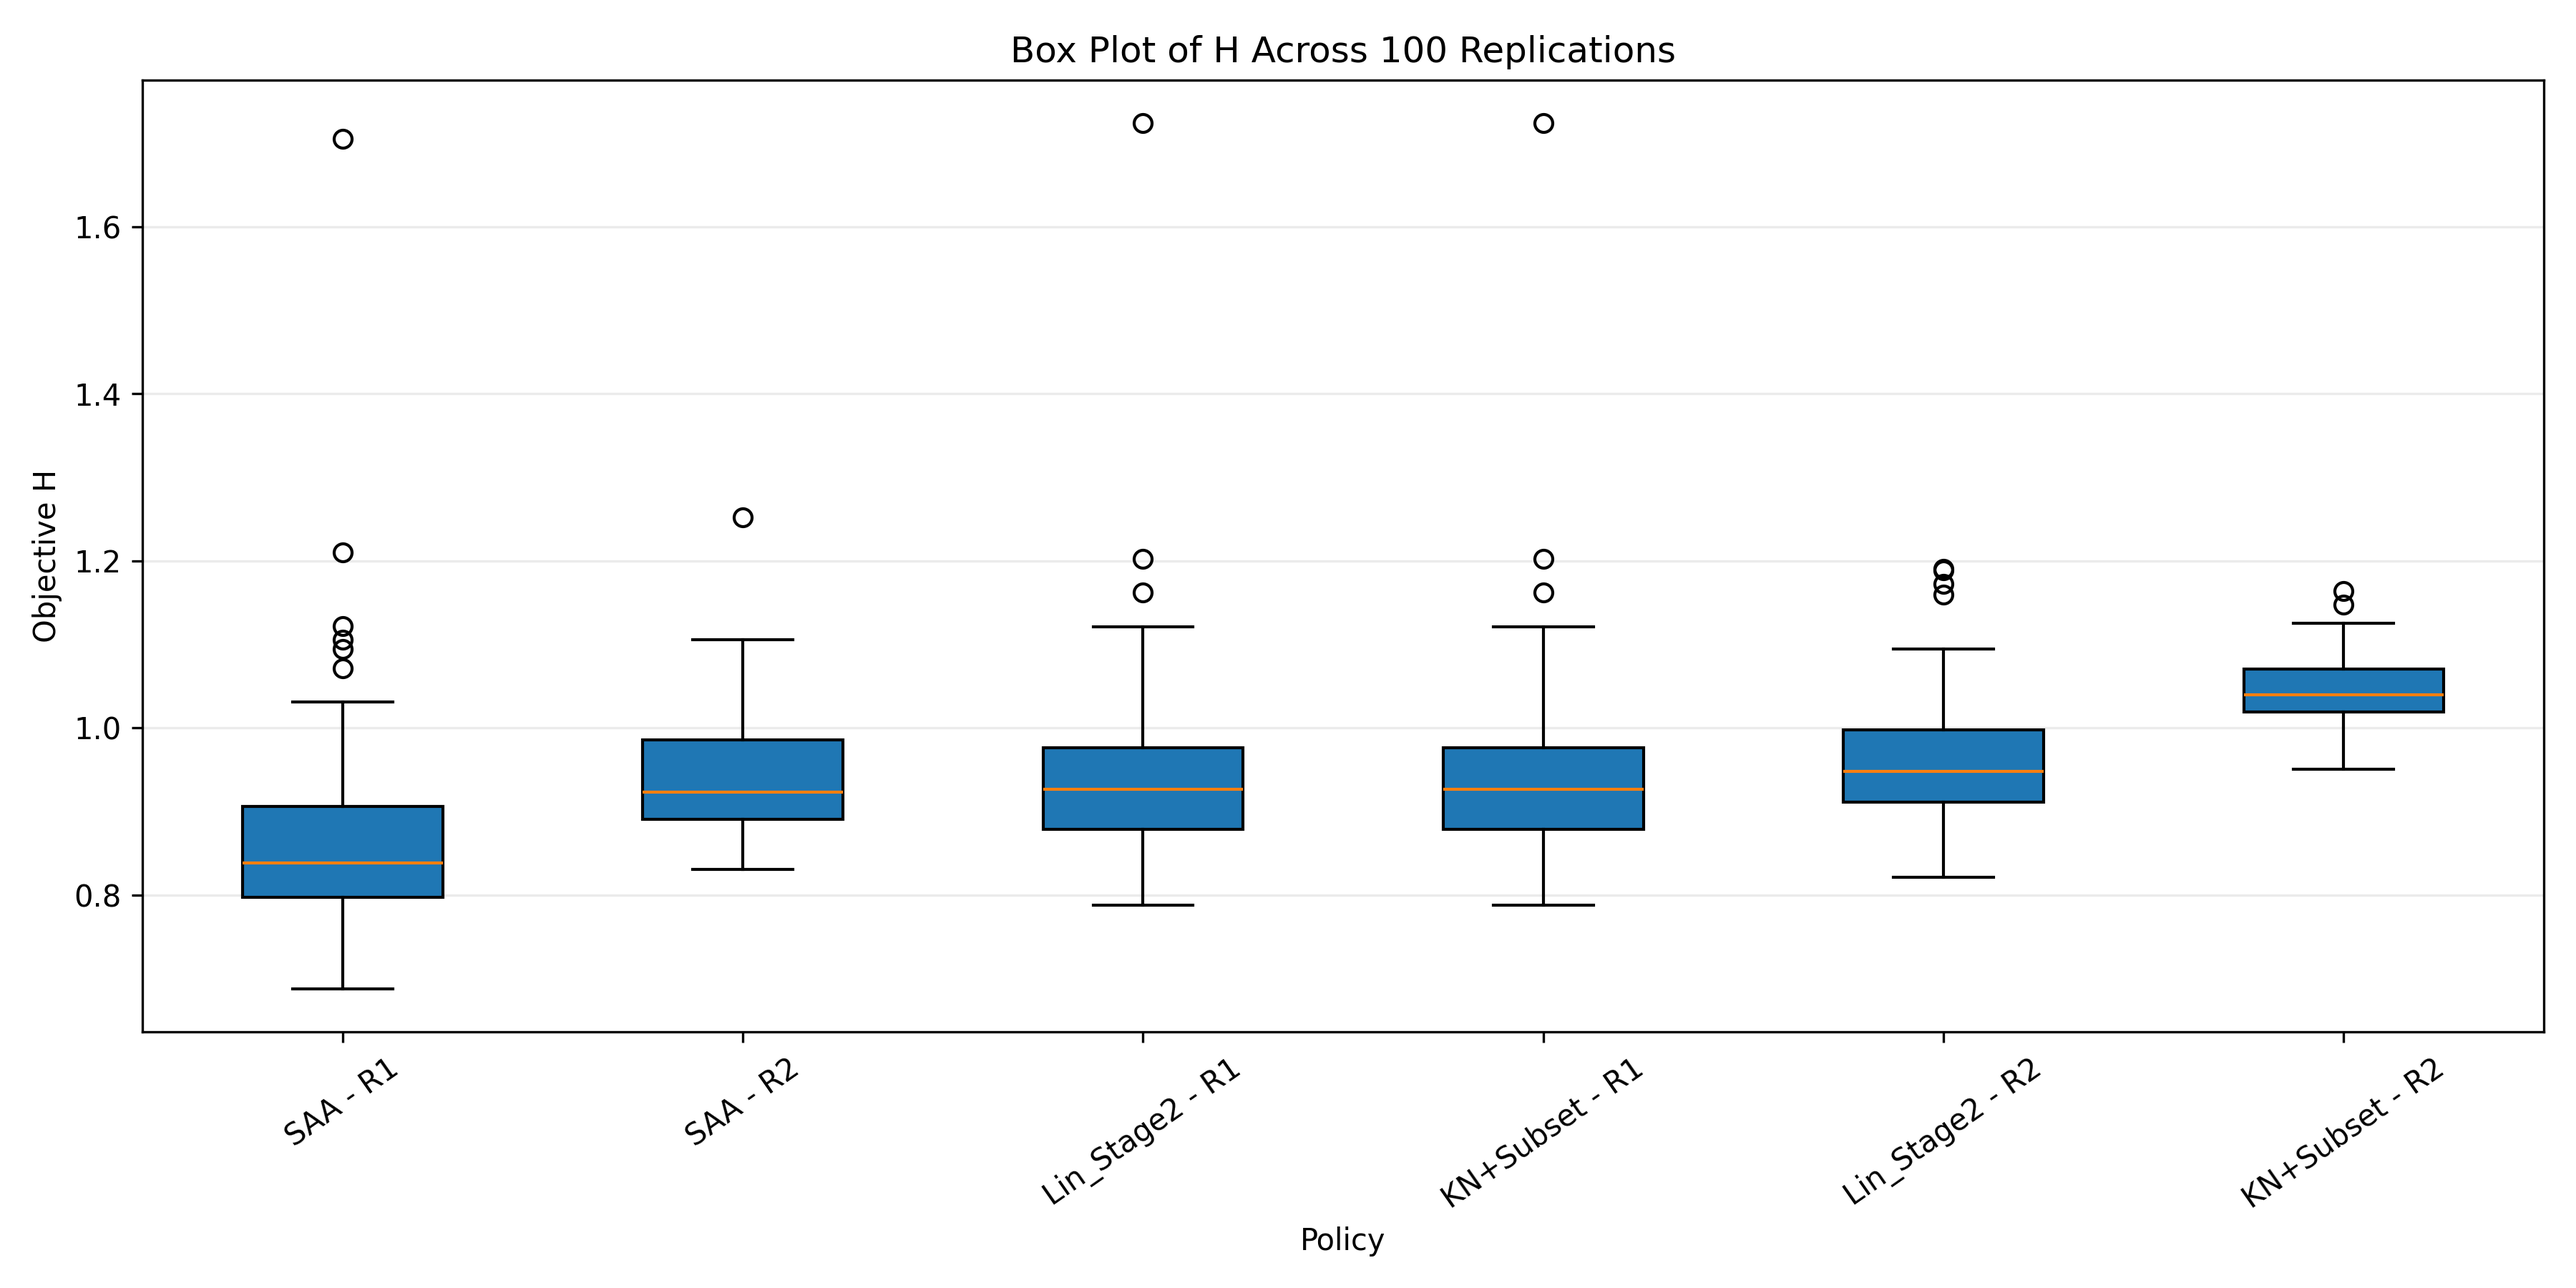
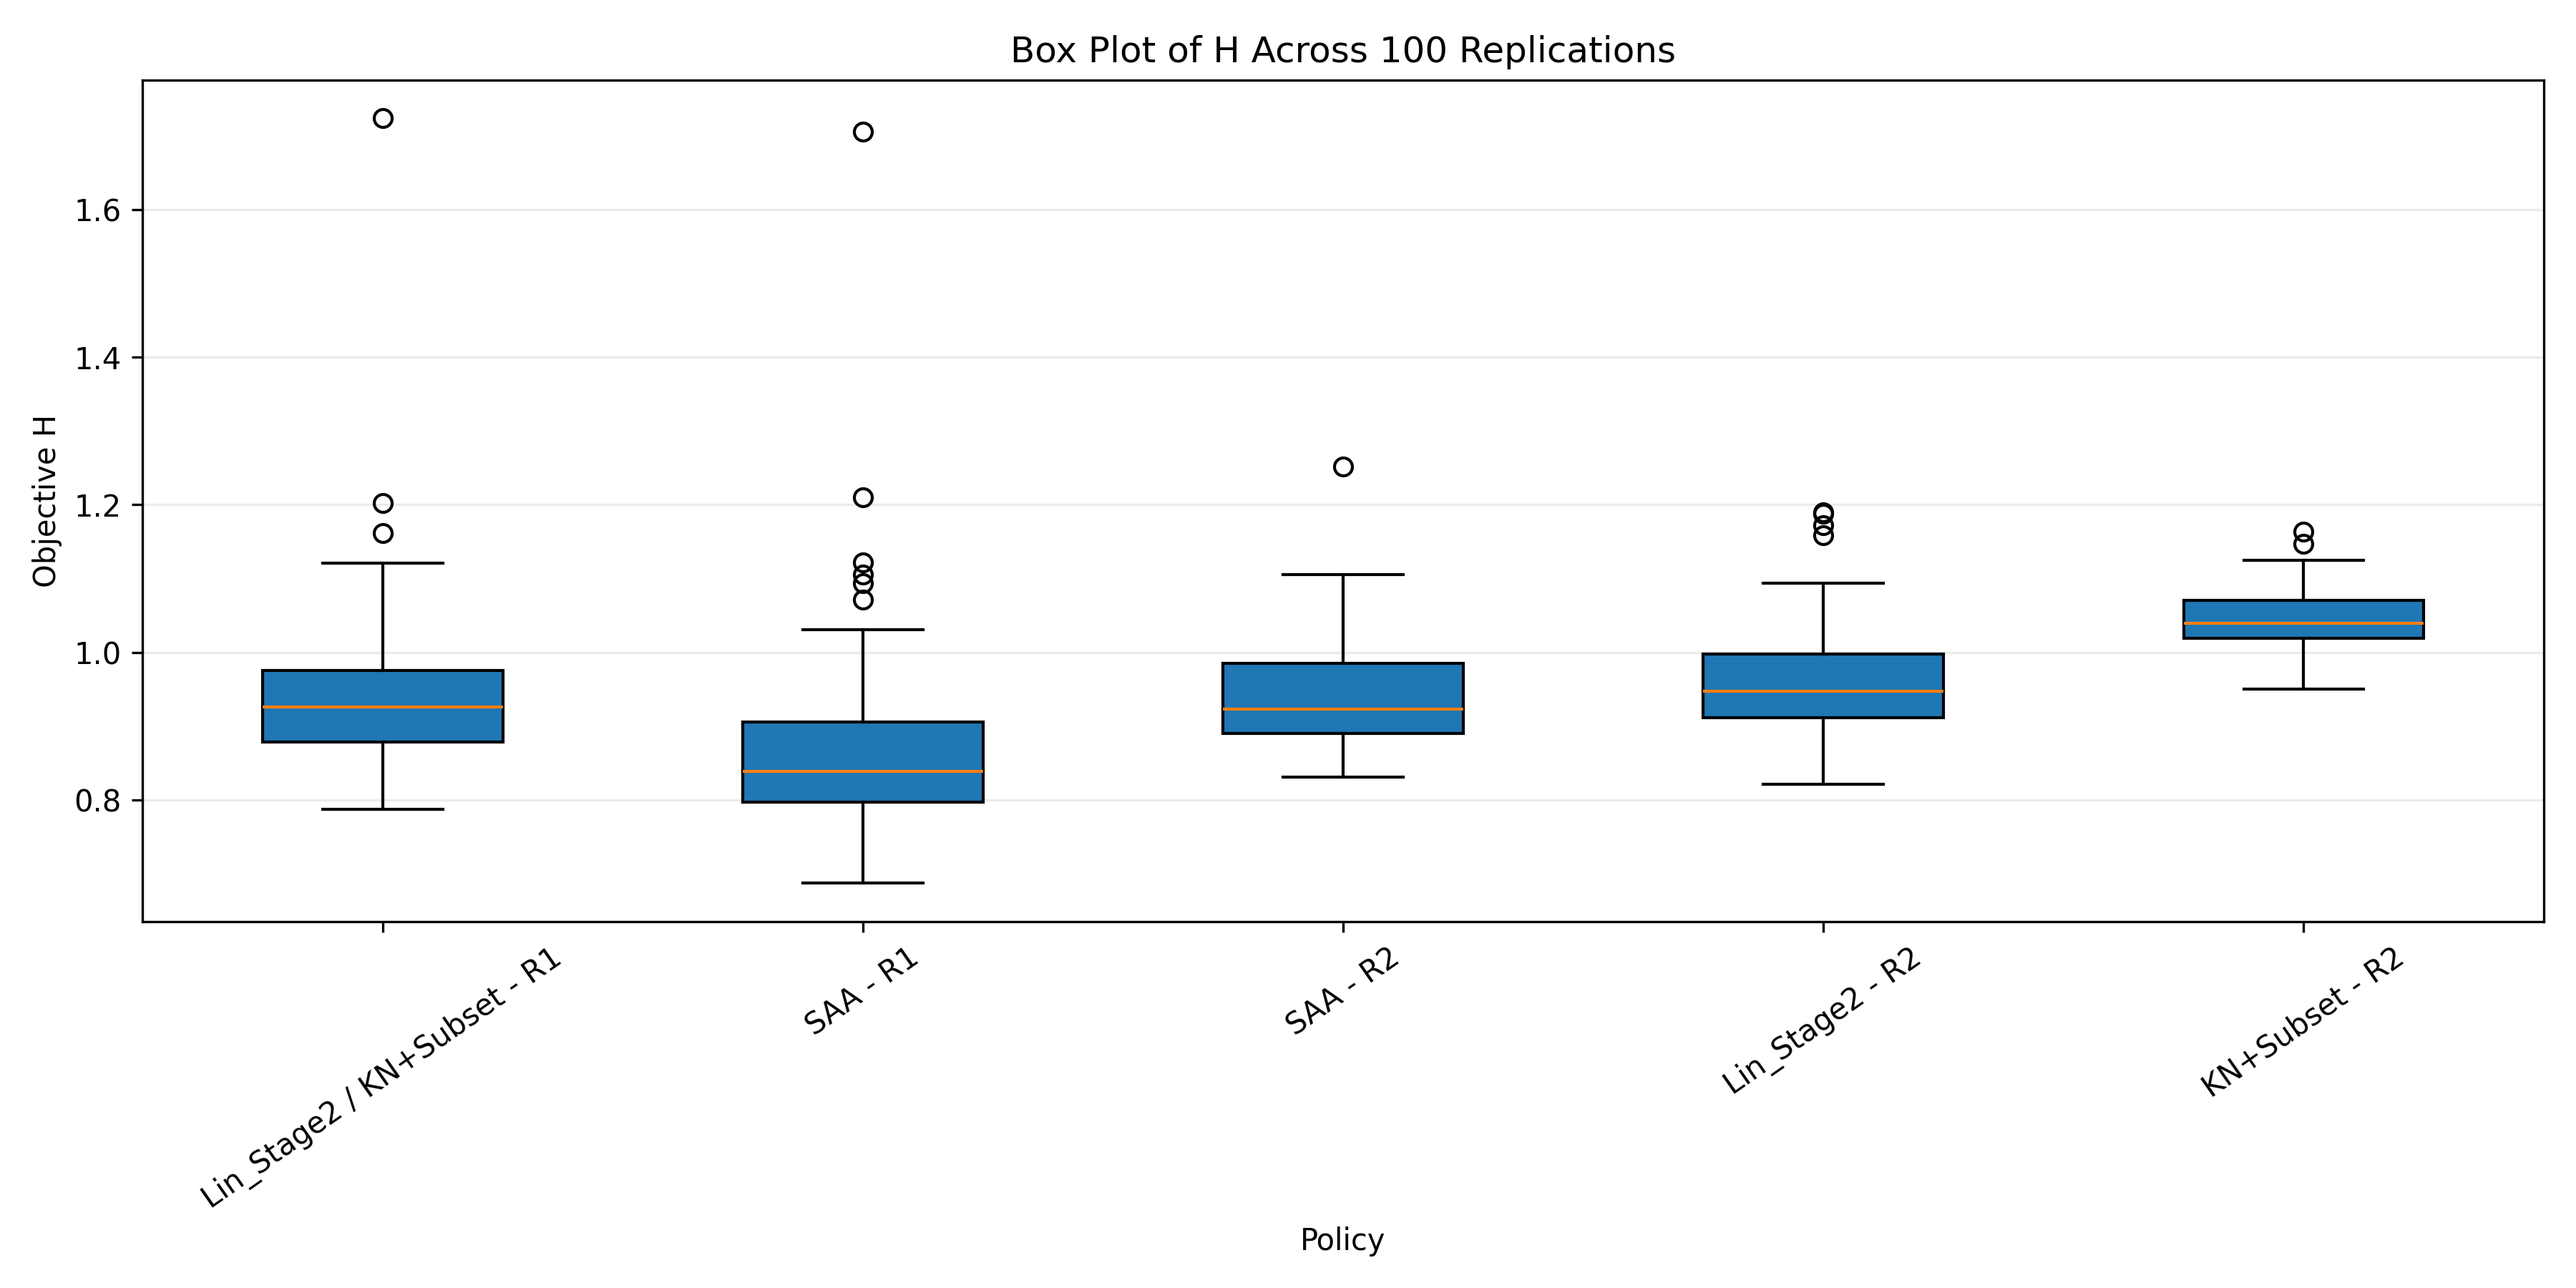
final_analysis

diff --git a/Result_Analysis.py b/Result_Analysis.py
@@ -10,6 +10,13 @@ import pandas as pd
 EVALUATE_POLICY_DIR = Path("evaluate_policy")
 ANALYSIS_OUTPUT_DIR = Path("result_analysis_outputs")
 Z_VALUE_95 = 1.96
+BASELINE_POLICY_NAME = "R1_840a3320_SAA2"
+MERGED_PLOT_GROUPS = [
+    (
+        ("R1_3d503d0e_Lin", "R1_c5d534fd_SubsetKN"),
+        "Lin_Stage2 / KN+Subset - R1",
+    ),
+]
 
 
 def _ensure_output_dir() -> Path:
@@ -98,11 +105,45 @@ def _save_summary_table(summary_df: pd.DataFrame) -> Path:
     return output_path
 
 
+def _build_plot_entries(summary_df: pd.DataFrame, policy_tables: dict[str, pd.DataFrame]) -> list[dict]:
+    entries: list[dict] = []
+    used_policy_names: set[str] = set()
+
+    for policy_names, label in MERGED_PLOT_GROUPS:
+        if all(policy_name in summary_df["policy_name"].values for policy_name in policy_names):
+            base_policy_name = policy_names[0]
+            base_row = summary_df.loc[summary_df["policy_name"] == base_policy_name].iloc[0]
+            entries.append(
+                {
+                    "policy_name": base_policy_name,
+                    "label": label,
+                    "row": base_row,
+                    "h_values": policy_tables[base_policy_name]["H"].to_numpy(dtype=float),
+                }
+            )
+            used_policy_names.update(policy_names)
+
+    for row in summary_df.itertuples(index=False):
+        if row.policy_name in used_policy_names:
+            continue
+        current_row = summary_df.loc[summary_df["policy_name"] == row.policy_name].iloc[0]
+        entries.append(
+            {
+                "policy_name": row.policy_name,
+                "label": row.policy,
+                "row": current_row,
+                "h_values": policy_tables[row.policy_name]["H"].to_numpy(dtype=float),
+            }
+        )
+
+    return entries
+
+
 def _save_box_plot(summary_df: pd.DataFrame, policy_tables: dict[str, pd.DataFrame]) -> Path:
     output_path = _ensure_output_dir() / "evaluate_policy_H_boxplot.png"
-    ordered_policy_names = summary_df["policy_name"].tolist()
-    labels = summary_df["policy"].tolist()
-    box_data = [policy_tables[policy_name]["H"].to_numpy(dtype=float) for policy_name in ordered_policy_names]
+    plot_entries = _build_plot_entries(summary_df, policy_tables)
+    labels = [entry["label"] for entry in plot_entries]
+    box_data = [entry["h_values"] for entry in plot_entries]
 
     fig, ax = plt.subplots(figsize=(12, 6))
     ax.boxplot(box_data, tick_labels=labels, patch_artist=True)
@@ -117,13 +158,17 @@ def _save_box_plot(summary_df: pd.DataFrame, policy_tables: dict[str, pd.DataFra
     return output_path
 
 
-def _save_mean_ci_plot(summary_df: pd.DataFrame) -> Path:
+def _save_mean_ci_plot(summary_df: pd.DataFrame, policy_tables: dict[str, pd.DataFrame]) -> Path:
     output_path = _ensure_output_dir() / "evaluate_policy_H_mean_CI95.png"
 
-    x = np.arange(len(summary_df))
-    y = summary_df["mean_H"].to_numpy(dtype=float)
-    yerr = (summary_df["CI95_upper_H"] - summary_df["mean_H"]).to_numpy(dtype=float)
-    labels = summary_df["policy"].tolist()
+    plot_entries = _build_plot_entries(summary_df, policy_tables)
+    x = np.arange(len(plot_entries))
+    y = np.array([float(entry["row"].mean_H) for entry in plot_entries], dtype=float)
+    yerr = np.array(
+        [float(entry["row"].CI95_upper_H) - float(entry["row"].mean_H) for entry in plot_entries],
+        dtype=float,
+    )
+    labels = [entry["label"] for entry in plot_entries]
 
     fig, ax = plt.subplots(figsize=(12, 6))
     ax.errorbar(
@@ -148,12 +193,70 @@ def _save_mean_ci_plot(summary_df: pd.DataFrame) -> Path:
     return output_path
 
 
+def pairwise_comparison(
+    summary_df: pd.DataFrame,
+    policy_tables: dict[str, pd.DataFrame],
+) -> pd.DataFrame:
+    plot_entries = _build_plot_entries(summary_df, policy_tables)
+    baseline_entry = next(
+        (entry for entry in plot_entries if entry["policy_name"] == BASELINE_POLICY_NAME),
+        None,
+    )
+    if baseline_entry is None:
+        raise ValueError(f"Baseline policy {BASELINE_POLICY_NAME} was not found in the evaluation tables.")
+
+    baseline_df = policy_tables[BASELINE_POLICY_NAME][["replication", "H"]].copy()
+    baseline_df = baseline_df.rename(columns={"H": "H_baseline"})
+
+    rows: list[dict] = []
+    for entry in plot_entries:
+        if entry["policy_name"] == BASELINE_POLICY_NAME:
+            continue
+
+        compare_df = pd.DataFrame(
+            {
+                "replication": policy_tables[entry["policy_name"]]["replication"].to_numpy(dtype=int),
+                "H_compare": entry["h_values"],
+            }
+        )
+        paired_df = baseline_df.merge(compare_df, on="replication", how="inner")
+        diff_values = paired_df["H_compare"].to_numpy(dtype=float) - paired_df["H_baseline"].to_numpy(dtype=float)
+
+        n = int(len(diff_values))
+        mean_diff = float(diff_values.mean())
+        std_diff = float(diff_values.std(ddof=1)) if n > 1 else 0.0
+        se_diff = std_diff / np.sqrt(n) if n > 0 else 0.0
+        ci_half_width = Z_VALUE_95 * se_diff
+        ci_lower = mean_diff - ci_half_width
+        ci_upper = mean_diff + ci_half_width
+
+        rows.append(
+            {
+                "baseline_policy": baseline_entry["label"],
+                "compared_policy": entry["label"],
+                "n_replications": n,
+                "mean_difference_H": mean_diff,
+                "std_difference_H": std_diff,
+                "SE_difference_H": se_diff,
+                "CI95_lower_difference_H": ci_lower,
+                "CI95_upper_difference_H": ci_upper,
+                "CI95_width_difference_H": 2.0 * ci_half_width,
+                "zero_in_CI": bool(ci_lower <= 0.0 <= ci_upper),
+            }
+        )
+
+    return pd.DataFrame(rows)
+
+
 def main() -> None:
     policy_tables = _load_eval_tables()
     summary_df = _build_summary_table(policy_tables)
     summary_path = _save_summary_table(summary_df)
     box_plot_path = _save_box_plot(summary_df, policy_tables)
-    mean_ci_plot_path = _save_mean_ci_plot(summary_df)
+    mean_ci_plot_path = _save_mean_ci_plot(summary_df, policy_tables)
+    diff_df = pairwise_comparison(summary_df, policy_tables)
+    diff_path = _ensure_output_dir() / "pairwise_comparison.csv"
+    diff_df.to_csv(diff_path, index=False)
 
     display_df = summary_df.copy()
     for col in [
@@ -169,9 +272,23 @@ def main() -> None:
     ]:
         display_df[col] = display_df[col].round(4)
 
+    display_diff_df = diff_df.copy()
+    for col in [
+        "mean_difference_H",
+        "std_difference_H",
+        "SE_difference_H",
+        "CI95_lower_difference_H",
+        "CI95_upper_difference_H",
+        "CI95_width_difference_H",
+    ]:
+        display_diff_df[col] = display_diff_df[col].round(4)
+
     print("H Summary From evaluate_policy Folder:")
     print(display_df.to_string(index=False))
+    print("\nPaired H Difference Versus SAA - R1 (other policy minus SAA - R1):")
+    print(display_diff_df.to_string(index=False))
     print(f"\nSaved summary table to {summary_path}")
+    print(f"Saved pairwise comparison table to {diff_path}")
     print(f"Saved H box plot to {box_plot_path}")
     print(f"Saved H mean/CI plot to {mean_ci_plot_path}")
 

diff --git a/Optimization_Lin_Stage2.py b/Optimization_Lin_Stage2.py
@@ -603,7 +603,8 @@ def optimize_timetable(
             "schedule_json": _serialize_qik(current_eval.qik),
         }
     ]
-
+    # Stopping Criteria when the nax iteration is achieved 
+    # or when the neighborhood search can no longer generate and accept improving candidate schedules.
     iteration = 0
     while iteration < int(config.max_iterations) and psize <= pmax_size:
         iteration += 1
